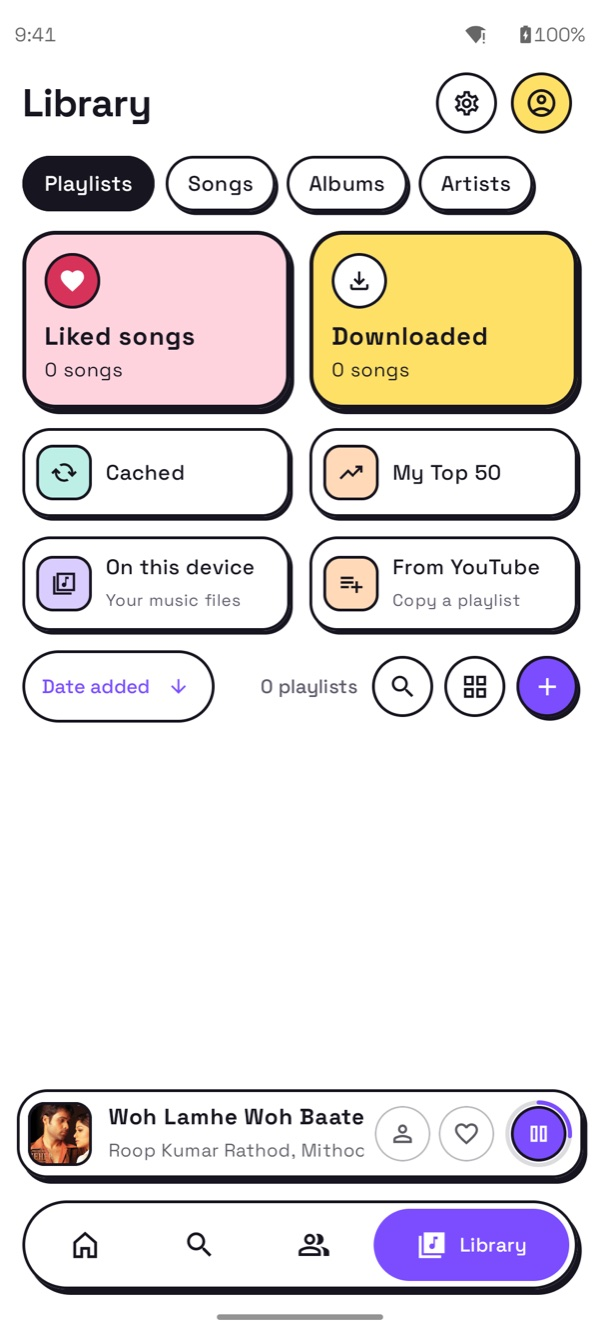
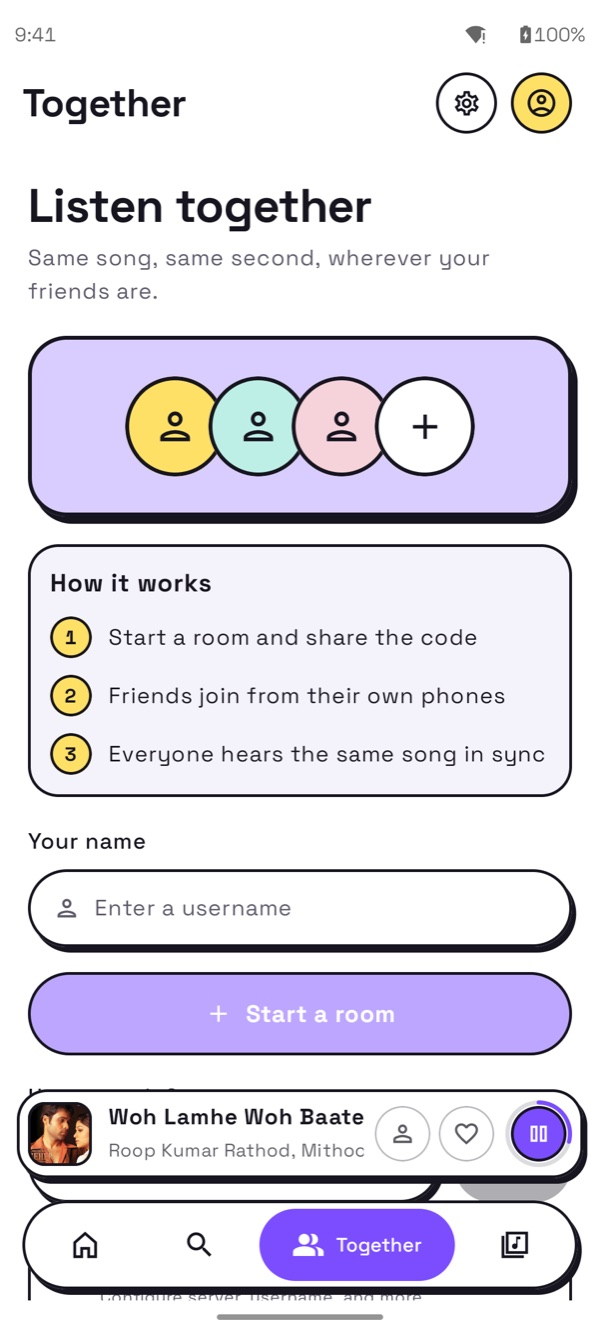
docs: fix mislabeled light screenshots (Explore/Together)

diff --git a/docs/index.html b/docs/index.html
@@ -216,7 +216,6 @@ a{color:inherit;text-decoration:none}
 <h2 class="disp" style="font-size:clamp(36px,5vw,56px);line-height:1.02">Made to be played with.</h2>
 </div>
 <div class="gal">
-<figure style=""><div class="shot"><img class="ml" src="img/app/explore-light.jpg" alt="Explore screen with charts and moods" width="600" height="1334" loading="lazy"><img class="md" src="img/app/explore-dark.jpg" alt="Explore screen with charts and moods" width="600" height="1334" loading="lazy"></div><figcaption class="cap">Explore</figcaption></figure>
 <figure style="margin-top:36px"><div class="shot"><img class="ml" src="img/app/lyrics-light.jpg" alt="Synced lyrics" width="600" height="1334" loading="lazy"><img class="md" src="img/app/lyrics-dark.jpg" alt="Synced lyrics" width="600" height="1334" loading="lazy"></div><figcaption class="cap">Synced lyrics</figcaption></figure>
 <figure style=""><div class="shot"><img class="ml" src="img/app/library-light.jpg" alt="Library" width="600" height="1334" loading="lazy"><img class="md" src="img/app/library-dark.jpg" alt="Library" width="600" height="1334" loading="lazy"></div><figcaption class="cap">Library</figcaption></figure>
 <figure style="margin-top:36px"><div class="shot"><img class="ml" src="img/app/together-light.jpg" alt="Listen together" width="600" height="1334" loading="lazy"><img class="md" src="img/app/together-dark.jpg" alt="Listen together" width="600" height="1334" loading="lazy"></div><figcaption class="cap">Listen together</figcaption></figure>

diff --git a/README.md b/README.md
@@ -97,7 +97,7 @@ Baaja checks for new releases by itself. When one is out, a dialog shows what ch
 <img src="docs/img/app/player-light.jpg" alt="Now playing" width="170" />&nbsp;
 <img src="docs/img/app/lyrics-light.jpg" alt="Synced lyrics" width="170" />&nbsp;
 <img src="docs/img/app/library-light.jpg" alt="Library" width="170" />&nbsp;
-<img src="docs/img/app/explore-light.jpg" alt="Explore" width="170" />
+<img src="docs/img/app/together-light.jpg" alt="Listen together" width="170" />
 
 **Dark**
 
@@ -105,7 +105,8 @@ Baaja checks for new releases by itself. When one is out, a dialog shows what ch
 <img src="docs/img/app/player-dark.jpg" alt="Now playing" width="170" />&nbsp;
 <img src="docs/img/app/lyrics-dark.jpg" alt="Synced lyrics" width="170" />&nbsp;
 <img src="docs/img/app/library-dark.jpg" alt="Library" width="170" />&nbsp;
-<img src="docs/img/app/explore-dark.jpg" alt="Explore" width="170" />
+<img src="docs/img/app/explore-dark.jpg" alt="Explore" width="170" />&nbsp;
+<img src="docs/img/app/together-dark.jpg" alt="Listen together" width="170" />
 
 </div>
 
